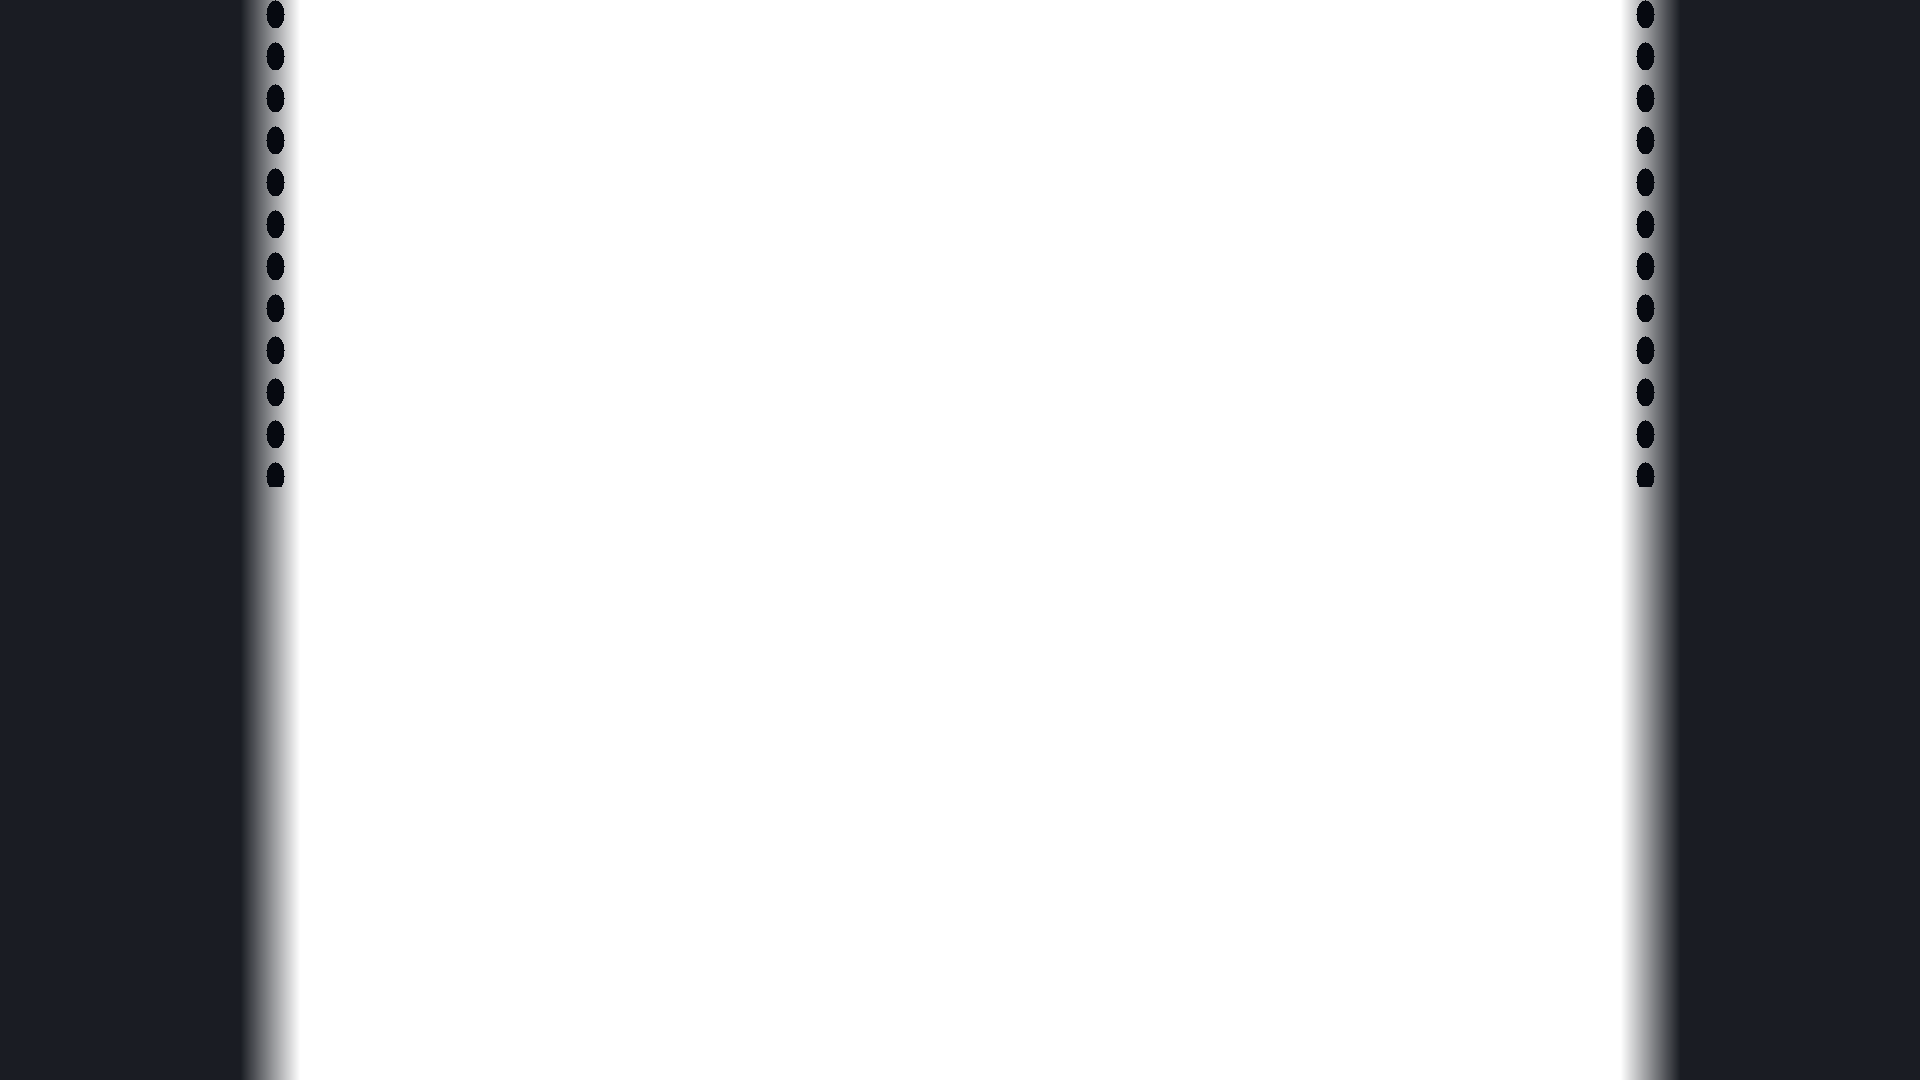
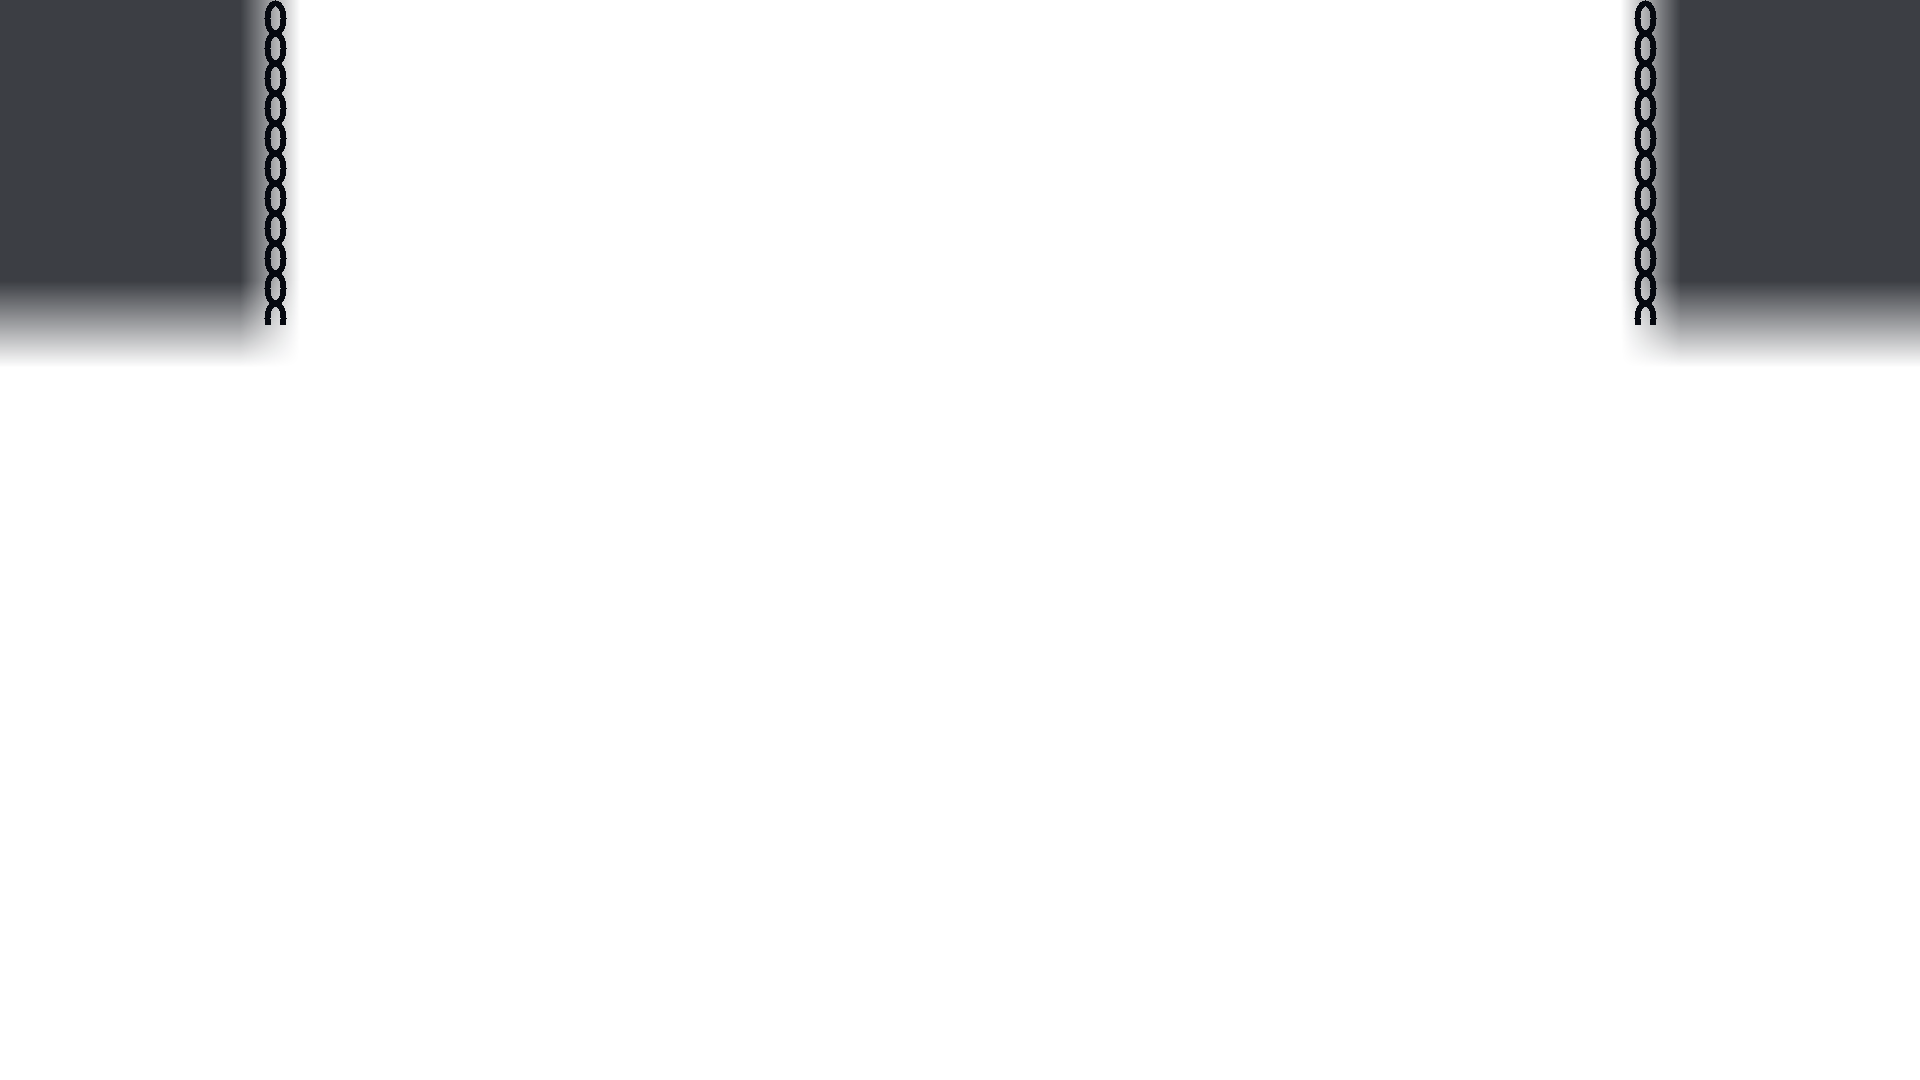
전경 기둥 세로 범위 축소, 쇠사슬 고리 맞물림, 중경 아치 제거·기둥 강화

Changed region(s): [[0.8438, 0.0, 1.0, 1.0], [0.0, 0.0, 0.1562, 1.0]]

diff --git a/make_fx.py b/make_fx.py
@@ -62,16 +62,13 @@ def make_shot(path, w=16, h=16):
 
 def make_scenery_mid(path, w=1920, h=1080):
     PILLAR_CX = [300, 960, 1620]
-    PILLAR_W = 110
+    PILLAR_W = 150
     PILLAR_EDGE = 20
-    ARCH_THICK = 40
-    ARCH_NY_TOP = 0.08
-    ARCH_NY_BOT = 0.30
     FADE_START_NY = 0.40
     FADE_END_NY = 0.55
-    BASE_ALPHA = 130
+    BASE_ALPHA = 175
     EDGE_ALPHA = 70
-    SR, SG, SB = 14, 20, 34
+    SR, SG, SB = 10, 14, 24
 
     rows = []
     for y in range(h):
@@ -82,7 +79,6 @@ def make_scenery_mid(path, w=1920, h=1080):
             continue
         for x in range(w):
             a = 0
-            # pillars
             for pcx in PILLAR_CX:
                 dx = abs(x - pcx)
                 if dx < PILLAR_W / 2:
@@ -91,38 +87,10 @@ def make_scenery_mid(path, w=1920, h=1080):
                         col_a = int(EDGE_ALPHA + (BASE_ALPHA - EDGE_ALPHA) * dist_edge / PILLAR_EDGE)
                     else:
                         col_a = BASE_ALPHA
-                    # fade out toward bottom
                     if ny >= FADE_START_NY:
                         t = (ny - FADE_START_NY) / (FADE_END_NY - FADE_START_NY)
                         col_a = int(col_a * (1.0 - t))
                     a = max(a, col_a)
-            # arches between adjacent pillar pairs
-            for i in range(len(PILLAR_CX) - 1):
-                ax1, ax2 = PILLAR_CX[i], PILLAR_CX[i + 1]
-                arc_cx = (ax1 + ax2) / 2.0
-                arc_rx = (ax2 - ax1) / 2.0
-                arc_cy_ny = ARCH_NY_TOP
-                arc_ry_ny = ARCH_NY_BOT - ARCH_NY_TOP
-                # ellipse: ((x-arc_cx)/arc_rx)^2 + ((ny-arc_cy_ny)/arc_ry_ny)^2
-                nx_norm = (x - arc_cx) / arc_rx
-                ny_norm = (ny - arc_cy_ny) / arc_ry_ny
-                r2 = nx_norm ** 2 + ny_norm ** 2
-                # ring of thickness ARCH_THICK pixels mapped to ny space
-                thick_ny = ARCH_THICK / h
-                outer_scale = 1.0
-                inner_scale = 1.0 - thick_ny / arc_ry_ny
-                if abs(nx_norm) <= 1.0 and ny_norm >= 0.0:
-                    r_outer = nx_norm ** 2 + ny_norm ** 2
-                    ny_inner = (ny - arc_cy_ny - thick_ny) / arc_ry_ny if arc_ry_ny > 0 else 0
-                    r_inner = nx_norm ** 2 + (ny_inner if ny_inner > 0 else 0) ** 2
-                    in_outer = r_outer <= 1.0
-                    in_inner = r_inner <= (inner_scale ** 2) if inner_scale > 0 else False
-                    if in_outer and not in_inner:
-                        arch_a = BASE_ALPHA
-                        if ny >= FADE_START_NY:
-                            t = (ny - FADE_START_NY) / (FADE_END_NY - FADE_START_NY)
-                            arch_a = int(arch_a * (1.0 - t))
-                        a = max(a, arch_a)
             if a > 0:
                 row += [SR, SG, SB, a]
             else:
@@ -136,15 +104,20 @@ def make_scenery_fore(path, w=1920, h=1080):
     RIGHT_X = 1620
     PILLAR_W = 150
     FADE_W = 60
-    PILLAR_ALPHA = 235
+    PILLAR_ALPHA = 200
+    PILLAR_NY_END = 0.34
+    PILLAR_FADE_START = 0.26
     CHAIN_ALPHA = 255
     CHAIN_L_X = 275
     CHAIN_R_X = 1645
-    CHAIN_NY_END = 0.45
-    RING_H = 28
-    RING_W = 18
-    RING_GAP = 14
+    CHAIN_NY_END = 0.30
+    RING_H = 36
+    RING_W = 22
+    RING_GAP = -6
+    RING_THICK = 6
     FR, FG, FB = 6, 9, 16
+
+    period = RING_H + RING_GAP  # 30
 
     rows = []
     for y in range(h):
@@ -152,35 +125,44 @@ def make_scenery_fore(path, w=1920, h=1080):
         row = []
         for x in range(w):
             a = 0
-            # left pillar: x < LEFT_X, outer edge at x=0, inner edge at x=LEFT_X
-            if x < LEFT_X:
+            # left pillar
+            if x < LEFT_X and ny < PILLAR_NY_END:
                 inner_dist = LEFT_X - x
-                if inner_dist <= FADE_W:
-                    t = inner_dist / FADE_W
-                    a = max(a, int(PILLAR_ALPHA * t))
-                else:
-                    a = max(a, PILLAR_ALPHA)
-            # right pillar: x > RIGHT_X, outer edge at x=w-1, inner edge at x=RIGHT_X
-            if x > RIGHT_X:
+                base_a = int(PILLAR_ALPHA * min(inner_dist, FADE_W) / FADE_W)
+                if ny >= PILLAR_FADE_START:
+                    tv = (ny - PILLAR_FADE_START) / (PILLAR_NY_END - PILLAR_FADE_START)
+                    base_a = int(base_a * (1.0 - tv))
+                a = max(a, base_a)
+            # right pillar
+            if x > RIGHT_X and ny < PILLAR_NY_END:
                 inner_dist = x - RIGHT_X
-                if inner_dist <= FADE_W:
-                    t = inner_dist / FADE_W
-                    a = max(a, int(PILLAR_ALPHA * t))
-                else:
-                    a = max(a, PILLAR_ALPHA)
-            # chains (only in ny 0..CHAIN_NY_END)
+                base_a = int(PILLAR_ALPHA * min(inner_dist, FADE_W) / FADE_W)
+                if ny >= PILLAR_FADE_START:
+                    tv = (ny - PILLAR_FADE_START) / (PILLAR_NY_END - PILLAR_FADE_START)
+                    base_a = int(base_a * (1.0 - tv))
+                a = max(a, base_a)
+            # chains (hollow overlapping rings)
             if ny <= CHAIN_NY_END:
+                rx = RING_W / 2.0
+                ry = RING_H / 2.0
+                rx_in = rx - RING_THICK
+                ry_in = ry - RING_THICK
                 for cx in (CHAIN_L_X, CHAIN_R_X):
-                    if abs(x - cx) <= RING_W // 2:
-                        # determine which ring segment this y falls in
-                        period = RING_H + RING_GAP
-                        y_in_period = int(y) % period
-                        if y_in_period < RING_H:
-                            # inside a ring oval vertically
-                            ring_cy = y_in_period - RING_H / 2
-                            ring_nx = (x - cx) / (RING_W / 2)
-                            ring_ny = ring_cy / (RING_H / 2)
-                            if ring_nx ** 2 + ring_ny ** 2 <= 1.0:
+                    dx = x - cx
+                    if abs(dx) > rx:
+                        continue
+                    # find all ring indices whose span includes y
+                    i_lo = max(0, (y - RING_H + 1) // period)
+                    i_hi = y // period + 1
+                    for i in range(i_lo, i_hi + 1):
+                        ring_top = i * period
+                        dy = y - (ring_top + ry)
+                        nx_e = dx / rx
+                        ny_e = dy / ry
+                        if nx_e ** 2 + ny_e ** 2 <= 1.0:
+                            nx_i = dx / rx_in if rx_in > 0 else 1e9
+                            ny_i = dy / ry_in if ry_in > 0 else 1e9
+                            if nx_i ** 2 + ny_i ** 2 > 1.0:
                                 a = max(a, CHAIN_ALPHA)
             if a > 0:
                 row += [FR, FG, FB, a]
